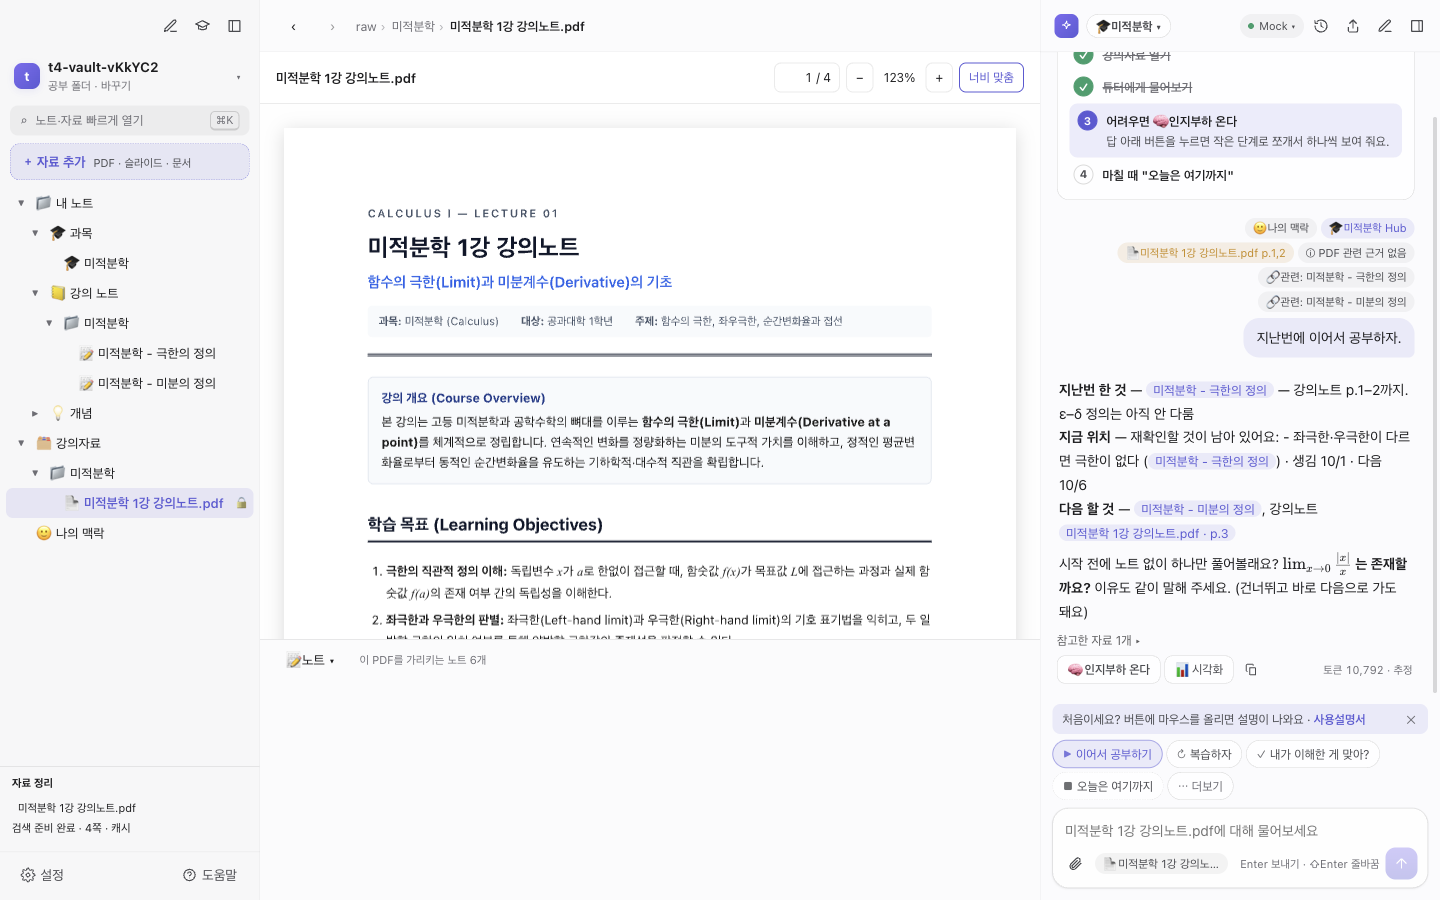
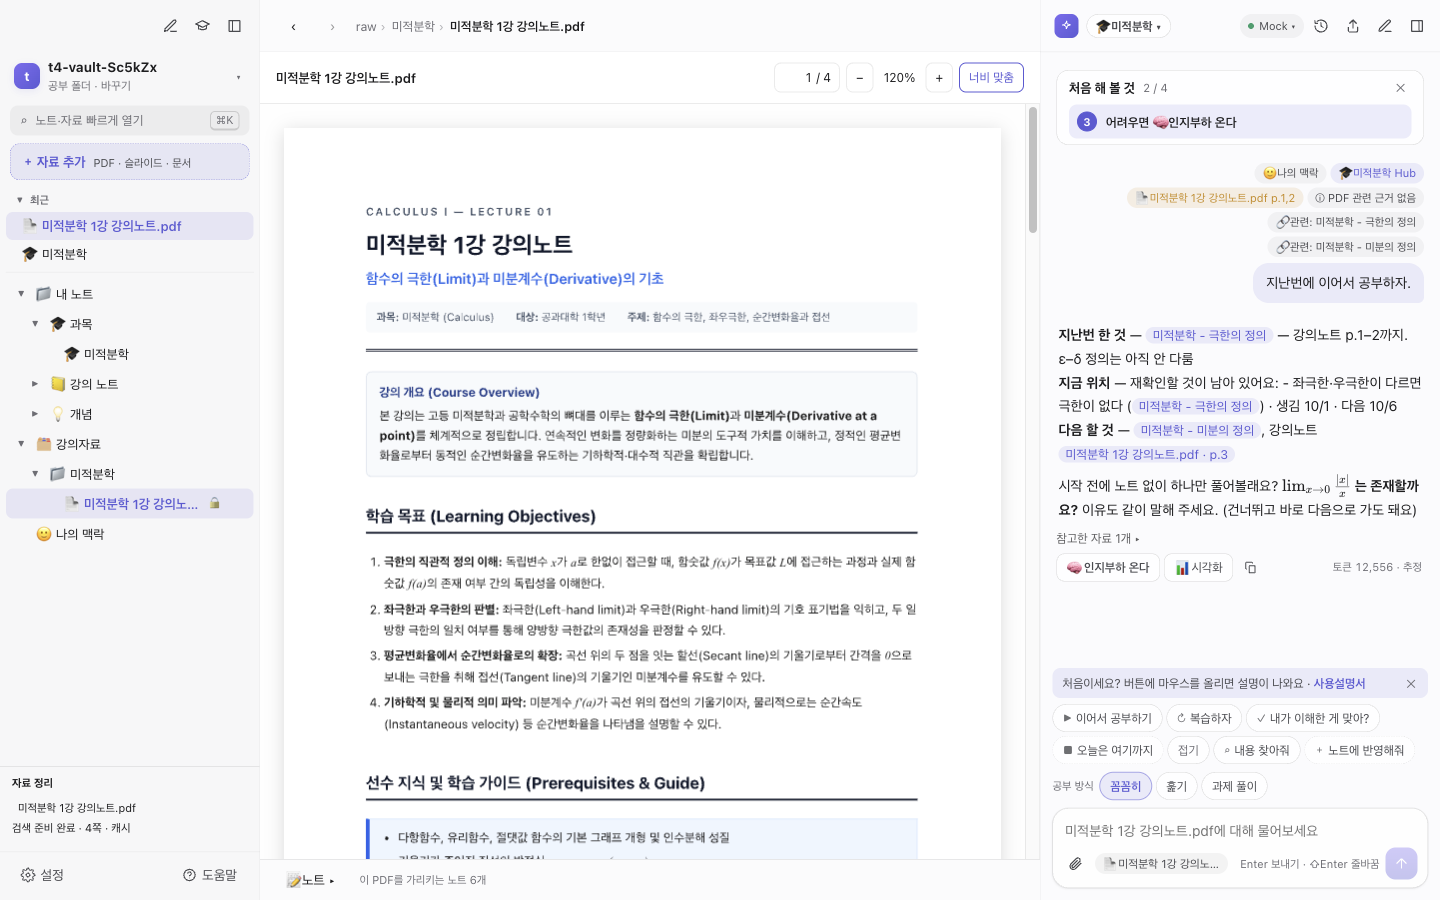
사이트 갱신 (19d3e5d)

diff --git a/docs/index.html b/docs/index.html
@@ -392,7 +392,7 @@ footer a { color: var(--muted); }
       <div class="feature">
         <div class="f-text">
           <h3>세 칸으로 공부해요</h3>
-          <p>왼쪽은 과목과 자료 목록, 가운데는 PDF와 노트, 오른쪽은 AI 튜터예요. 자료를 크게 보고 싶으면 <kbd>⌘\</kbd>, <kbd>⌘L</kbd>로 양옆을 접어요.</p>
+          <p>왼쪽은 과목과 자료 목록, 가운데는 PDF와 노트, 오른쪽은 AI 튜터예요. 자료를 크게 보고 싶으면 <kbd>⌘\</kbd>, <kbd>⌘L</kbd>로 양옆을 접어요. 자주 여는 자료는 ★로 즐겨찾기하고, 최근 연 자료는 목록 위에 모여요.</p>
           <p>노트는 쓰는 대로 서식이 보이는 편집기라서 수식(<code>$x^2$</code>)과 노트 링크(<code>[[개념]]</code>)를 바로 쓸 수 있어요.</p>
         </div>
         <div class="f-shot"><img src="screenshots/02-main.png" width="1440" height="900" loading="lazy" alt="과목 Hub 노트가 열린 SSAM 메인 화면"></div>
@@ -402,7 +402,7 @@ footer a { color: var(--muted); }
         <div class="f-text">
           <h3>PDF에서 드래그해서 바로 물어요</h3>
           <p>헷갈리는 문장을 드래그하면 <strong>튜터에게 묻기</strong> 버튼이 떠요. 선택한 구절과 그 페이지가 질문에 함께 붙어요.</p>
-          <p>스캔한 책도 글자를 인식해서 검색하고, 두꺼운 책은 목차 단위로 나눠 읽기 때문에 큰 파일을 열어도 화면이 멈추지 않아요.</p>
+          <p>스캔한 책도 글자를 인식해서 검색하고, 두꺼운 책은 목차 단위로 나눠 읽기 때문에 큰 파일을 열어도 화면이 멈추지 않아요. 구조식·그래프·회로도가 있는 쪽은 튜터가 그 쪽 그림을 직접 보고 설명해요.</p>
         </div>
         <div class="f-shot"><img src="screenshots/04-pdf.png" width="1440" height="900" loading="lazy" alt="PDF 뷰어에서 문장을 선택하고 튜터에게 묻는 화면"></div>
       </div>
@@ -428,6 +428,18 @@ footer a { color: var(--muted); }
             <li>"부하 저항도 슬라이더로"처럼 말로 고칠 수 있고, 이전 버전으로 돌아갈 수 있어요.</li>
             <li>튜터가 그림이 도움 될 때 <strong>✨ 시각화로 보기</strong>를 권해요. 누를 때만 만들어요.</li>
             <li>공부 폴더에 .html로 저장하면 인터넷 없이 앱 밖 브라우저에서도 열려요.</li>
+          </ul>
+        </div>
+      </div>
+
+      <div class="feature solo">
+        <div class="f-text">
+          <h3>내 속도, 내 범위로</h3>
+          <p>입력창 위에서 공부 방식을 골라요. <strong>꼼꼼히</strong>는 한 덩어리씩 확인하며, <strong>훑기</strong>는 큰 흐름을 한 번에, <strong>과제 풀이</strong>는 문제마다 풀이를 주고 다음 문제로 넘어가요. 이어서 공부할 때는 오늘 범위의 흐름과 지금 위치를 먼저 보여 줘요.</p>
+          <ul>
+            <li><strong>복습하자</strong>에서 범위(오늘 한 것·틀린 것만·과목 전체·직접 쓰기)를 고르거나 "3장 퀴즈 10개"처럼 말하면 문제를 한꺼번에 내고, 답을 모아 보내면 한 번에 채점해요.</li>
+            <li>"앞으로 용어는 영어로"처럼 말하면 그대로 따르고, 버튼 한 번으로 <strong>나의 맥락</strong>에 저장해 다음 대화에도 이어져요.</li>
+            <li>설정 › 화면에서 튜터 글씨 크기를 바꿀 수 있어요.</li>
           </ul>
         </div>
       </div>
@@ -927,13 +939,13 @@ footer a { color: var(--muted); }
     ['add', '+ 자료 추가', 'PDF·슬라이드·이미지를 넣어요. 넣으면 검색할 수 있게 읽고 노트로 정리해요.'],
     ['quick', '빠르게 열기 (⌘K)', '파일 이름을 몇 글자만 쳐서 노트나 PDF를 바로 열어요.'],
     ['sidebar', '목록 접기 (⌘\\)', '왼쪽 목록을 접어서 PDF를 넓게 봐요.'],
-    ['settings', '설정 (⌘,)', 'AI 연결, 사용량, 화면 테마, 대화 내보내기, 정보·의견이 있어요.'],
+    ['settings', '설정 (⌘,)', 'AI 연결, 사용량, 화면 테마·튜터 글씨 크기, 대화 내보내기, 정보·의견이 있어요.'],
     ['course', '과목 칩', '튜터가 어느 과목 기준으로 답할지예요. 기본은 열린 파일을 따라 자동이고, 눌러서 직접 고를 수 있어요.'],
     ['model', 'AI·모델 메뉴', '연결한 AI와 모델, 추론 강도(낮음·보통·높음)를 바꾸고 구독 사용량을 봐요.'],
     ['history', '채팅 기록', '지난 대화를 날짜별로 다시 열고, 이름 바꾸기·내보내기·삭제를 해요.'],
     ['newchat', '새 대화', '지금 대화를 두고 새 주제로 시작해요.'],
     ['tutorfold', '튜터 접기 (⌘L)', '튜터를 접고 펼쳐요. 펼치면 입력창에 바로 커서가 가요.'],
-    ['shortcuts', '숏컷', '이어서 공부하기 · 복습하자(질문부터) · 내가 이해한 게 맞아? · 내용 찾아줘 · 오늘은 여기까지. 열린 파일에 맞는 것만 먼저 보이고 나머지는 더보기에 있어요.'],
+    ['shortcuts', '숏컷', '이어서 공부하기 · 복습하자(범위 고르기) · 내가 이해한 게 맞아? · 내용 찾아줘 · 오늘은 여기까지. 열린 파일에 맞는 것만 먼저 보이고 나머지는 더보기에 있어요. 아래 줄에서 공부 방식(꼼꼼히·훑기·과제 풀이)을 골라요.'],
     ['overload', '🧠 인지부하 온다', '방금 답을 작은 단계로 쪼개서 하나씩 다시 설명해요.'],
     ['input', '질문 입력창', 'Enter로 보내고 Shift+Enter로 줄을 바꿔요. "이거 3강 자료야"처럼 말하면 첨부한 파일을 과목 자료로 저장해요.'],
     ['attach', '첨부', '파일이나 이미지를 질문에 붙여요. 화면 캡처를 붙여 물어봐도 돼요.']
